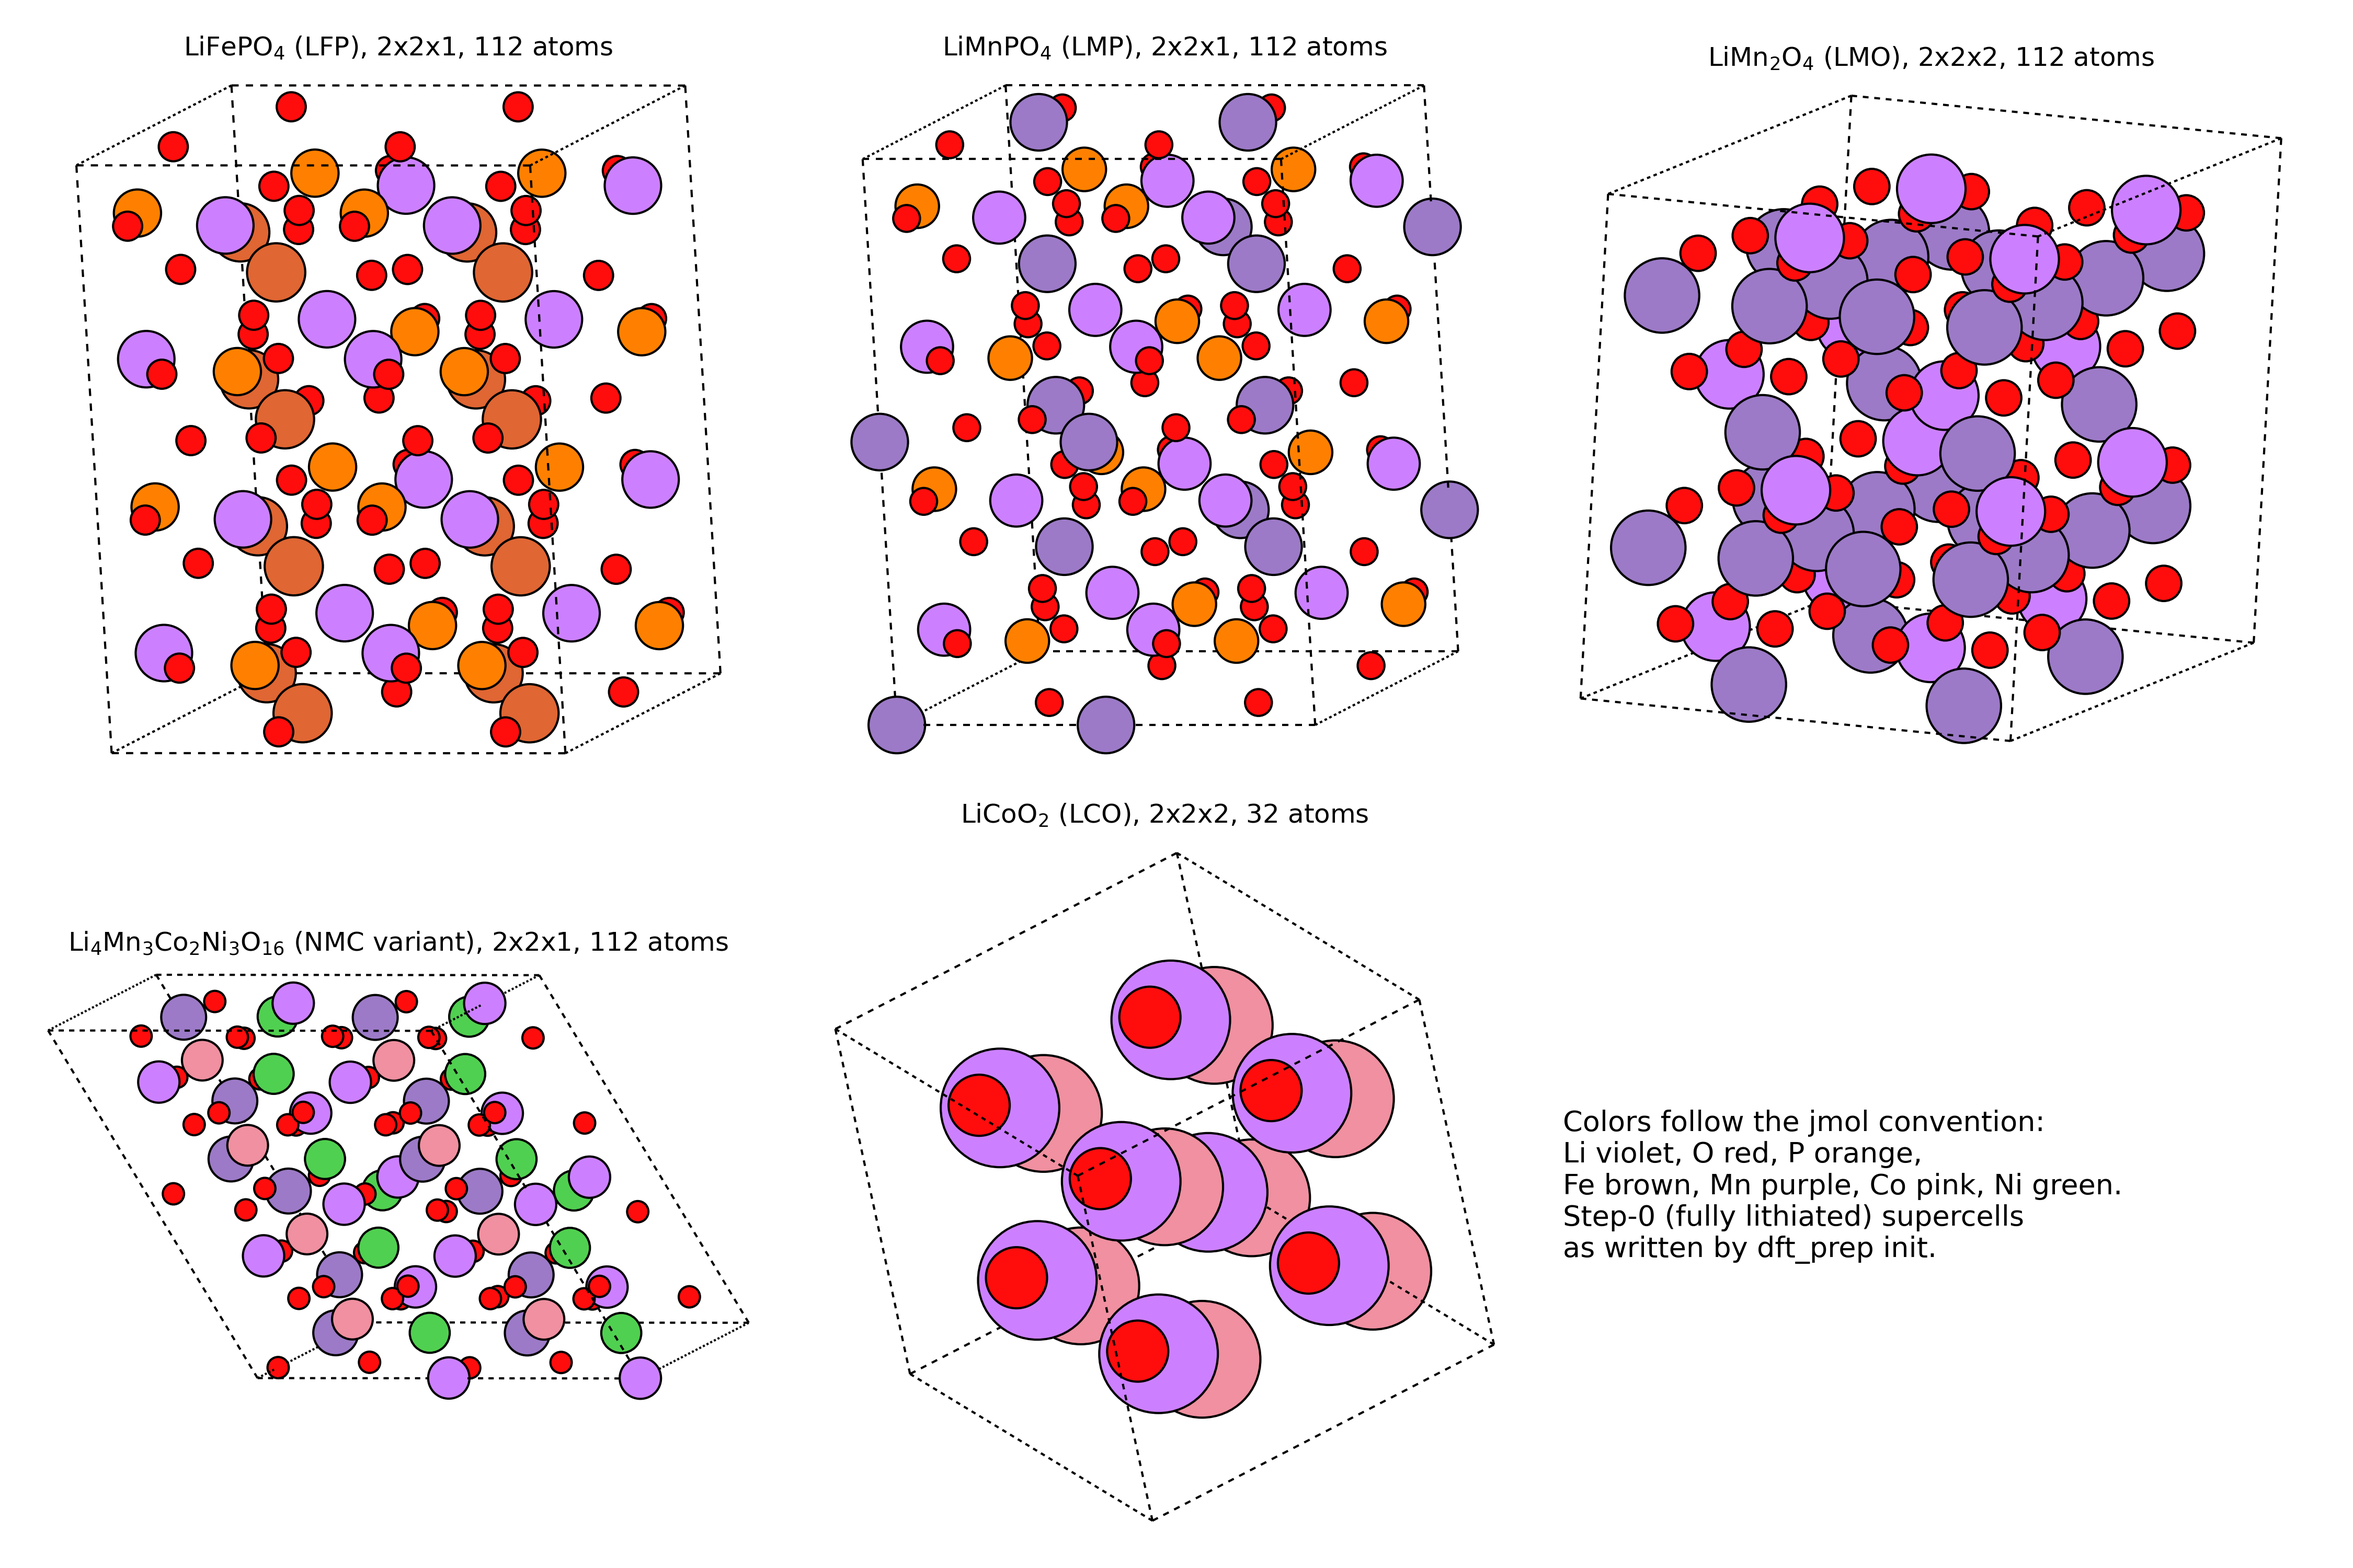
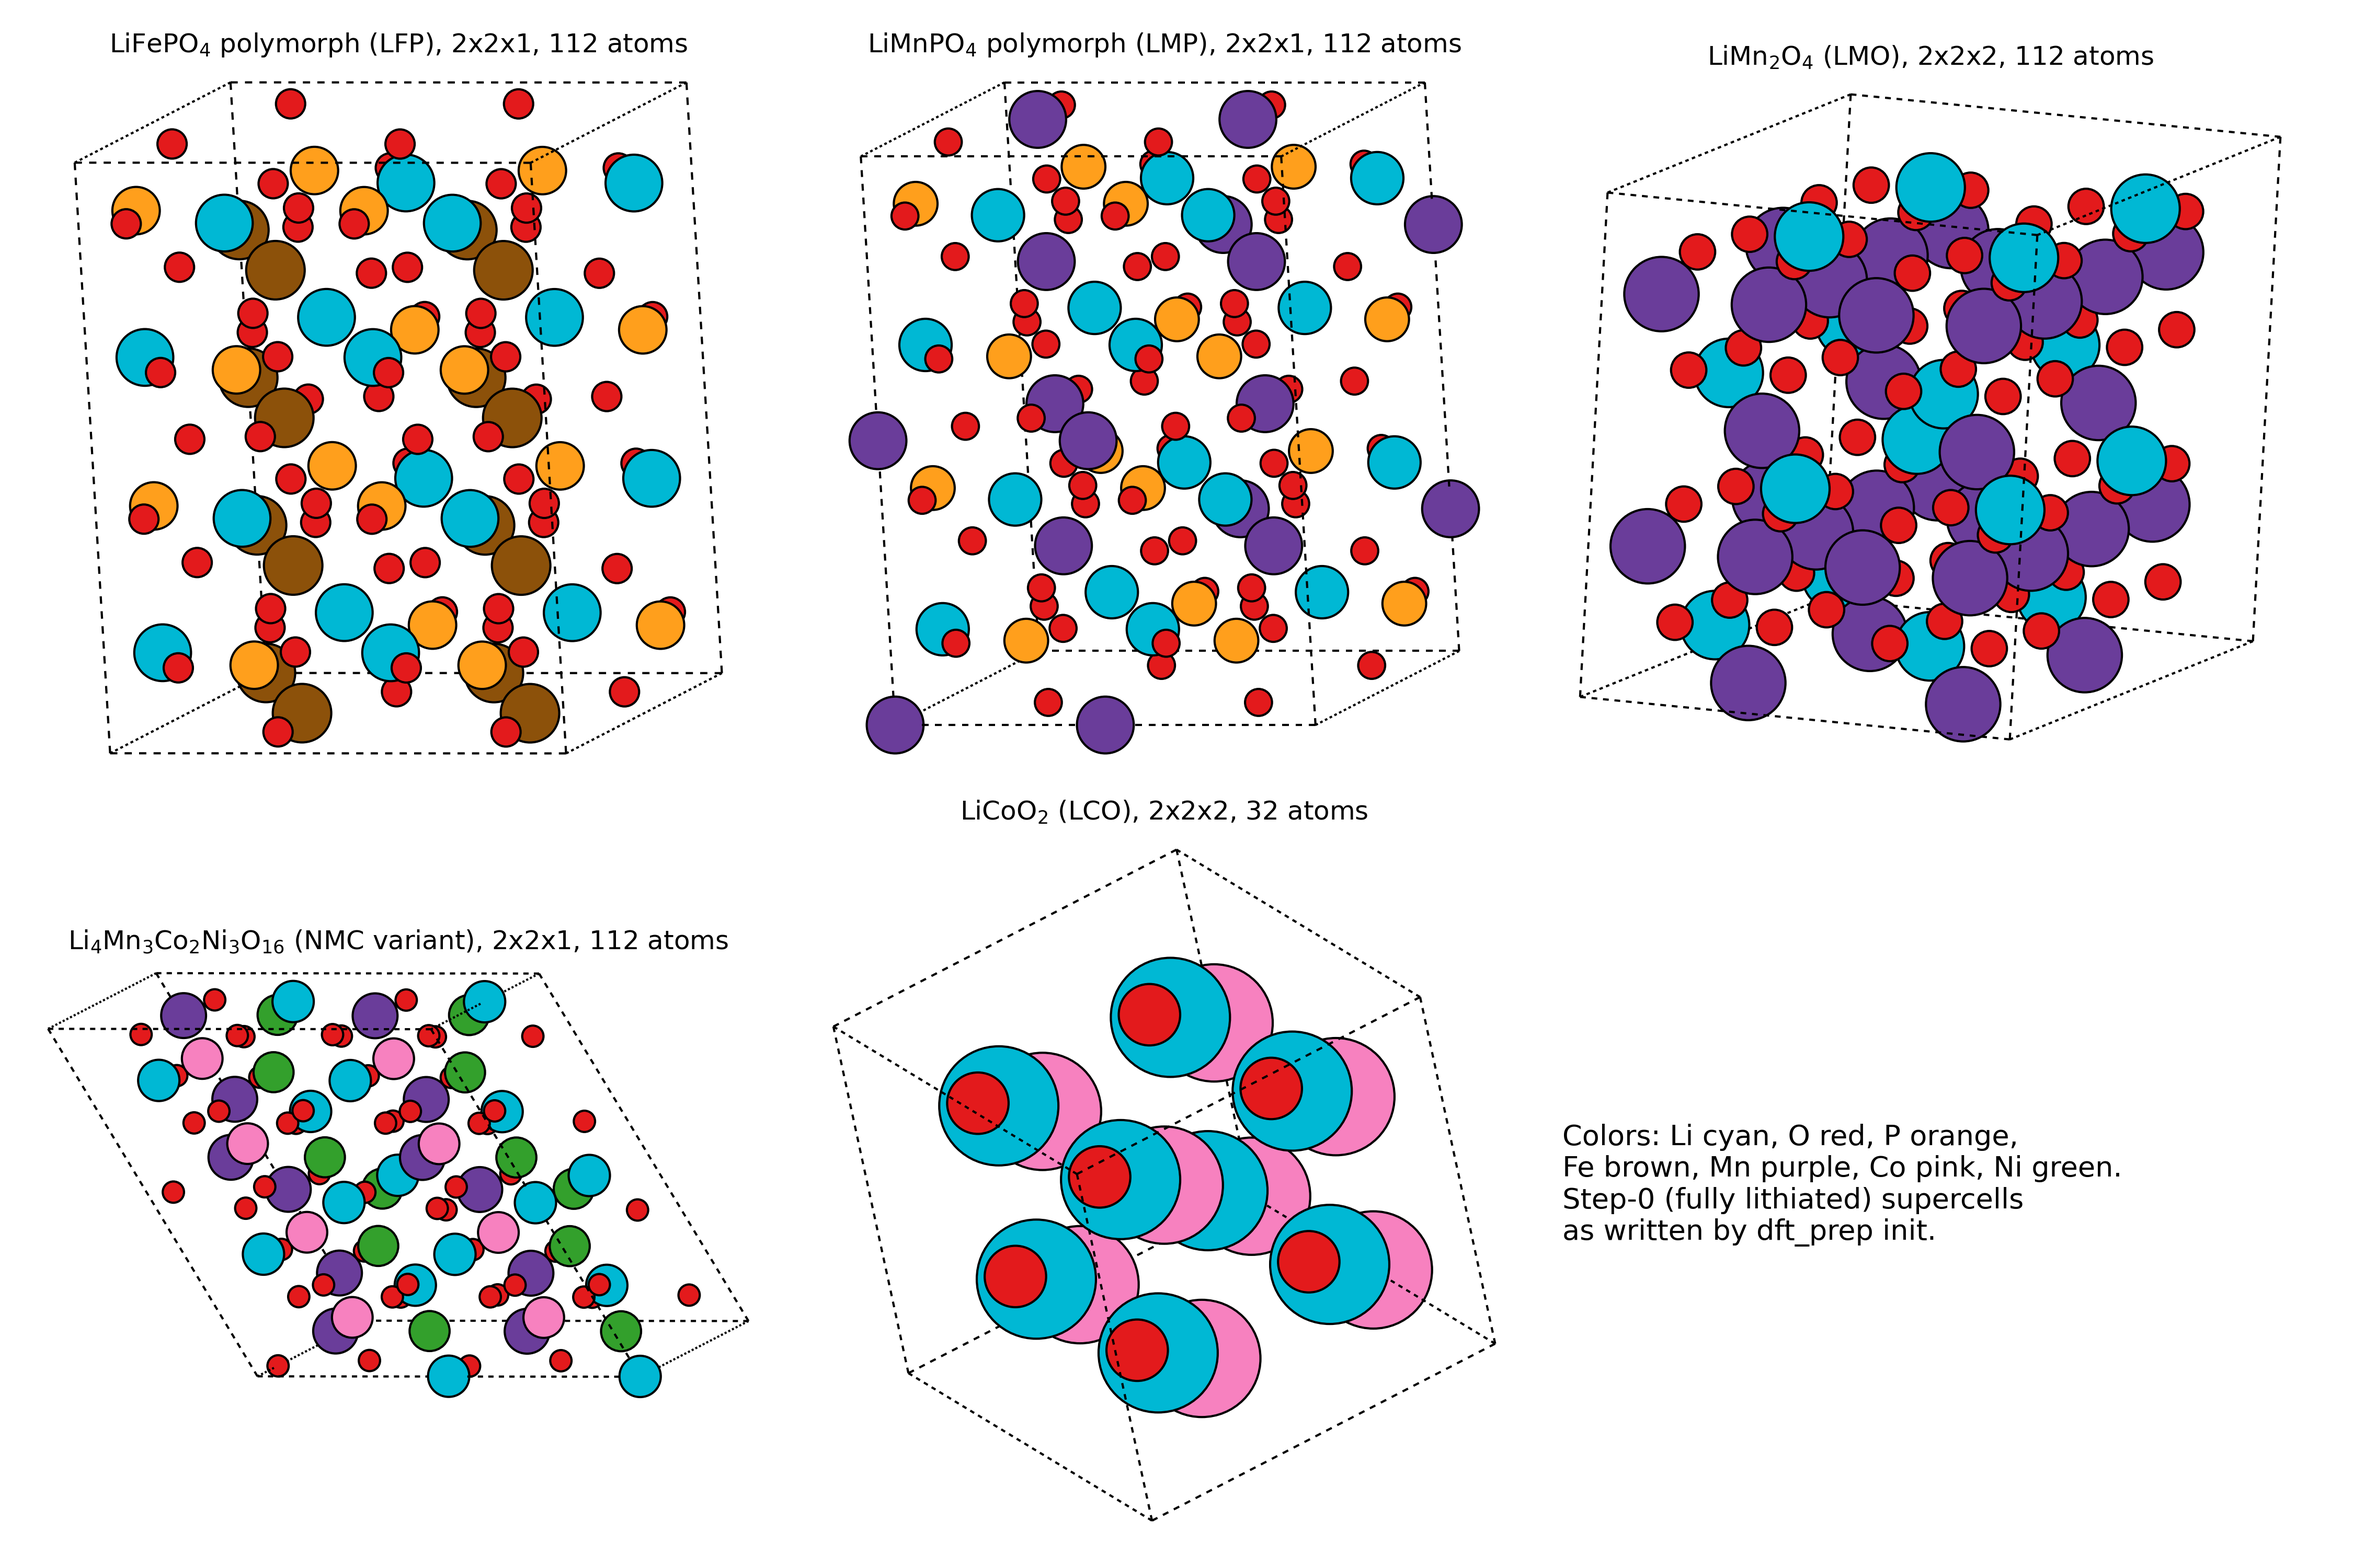
Redraw structure and enumeration SI figures: distinct element colors, panel letters

diff --git a/batterymat/screening_cathode/analysis/enumeration/enumerate.py b/batterymat/screening_cathode/analysis/enumeration/enumerate.py
@@ -41,6 +41,7 @@ Usage
   python enumerate.py JVASP-2017   [--relax auto|all|minimal|none] [--workers 4]
   python enumerate.py JVASP-96563  --ref-poscar /path/to/POSCAR
   python enumerate.py --summary    # rebuild enumeration_summary.md + PNGs from JSON
+  python enumerate.py --figures --results-suffix _mac   # redraw the SI figure (panels a-d) only
 
 Environment: ALIGNN-FF on this Mac needs KMP_DUPLICATE_LIB_OK=TRUE and a single
 OpenMP thread per process (multithreaded torch+dgl segfaults); the script sets
@@ -640,7 +641,7 @@ def _fe_curve(energy_by_mask_or_list, e_full, e_empty, n_tot):
     return fe
 
 
-def plot_system(res, out_png):
+def plot_system(res, out_png, letters="abc"):
     import matplotlib
     matplotlib.use("Agg")
     import matplotlib.pyplot as plt
@@ -678,7 +679,7 @@ def plot_system(res, out_png):
         ax.set_title(title); ax.set_xticks(range(0, n + 1)); ax.invert_xaxis(); ax.grid(alpha=0.25)
         ax.legend(loc="upper center", frameon=False)
 
-    mixing_panel(axes[0], "e_sp", a_sp["per_composition"], "(a) single-point, unrelaxed lattice",
+    mixing_panel(axes[0], "e_sp", a_sp["per_composition"], "single-point, unrelaxed lattice",
                  ("level_a_single_point", "global_min_path"))
     # gap panel: E - E_min(n_Li), symlog so 25 meV and 1 eV are both visible
     ax = axes[1]
@@ -696,11 +697,13 @@ def plot_system(res, out_png):
     ax.set_yscale("symlog", linthresh=GAP_WINDOW_MEV, linscale=1.0)
     ax.set_ylim(-3, max(ys) * 1.6)
     ax.set_xlabel("n$_{Li}$ remaining in cell"); ax.set_ylabel("E $-$ E$_{min}$(n$_{Li}$)  (meV / cell, symlog)")
-    ax.set_title("(a') greedy gap to the exhaustive minimum"); ax.set_xticks(range(0, n + 1)); ax.invert_xaxis()
+    ax.set_title("greedy gap to the exhaustive minimum"); ax.set_xticks(range(0, n + 1)); ax.invert_xaxis()
     ax.grid(alpha=0.25, which="both"); ax.legend(loc="upper center", frameon=False)
     if have_b:
         mixing_panel(axes[2], "e_relax", res["analysis"]["level_b_relaxed"]["per_composition"],
-                     "(b) after FIRE steps (diagnostic, see caveat)", ("level_b_relaxed", "global_min_relaxed_path"), contcar=True)
+                     "after FIRE steps (diagnostic, see caveat)", ("level_b_relaxed", "global_min_relaxed_path"), contcar=True)
+    for a, letter in zip(axes, letters):  # panel letters (computation levels are named in the titles)
+        a.text(-0.10, 1.03, letter, transform=a.transAxes, fontsize=22, fontweight="bold", va="bottom", ha="left")
     fig.suptitle(f"{res['jid']}  {res['formula']}  ({res['n_atoms']} atoms, {n} Li sites, {2**n} configurations)", fontsize=15)
     fig.tight_layout()
     fig.savefig(out_png, dpi=170)
@@ -846,8 +849,19 @@ def main():
     ap.add_argument("--ref-poscar", default=None)
     ap.add_argument("--resume", action="store_true", help="reuse energies already in results_JID.json")
     ap.add_argument("--summary", action="store_true", help="only rebuild summary + plots from existing JSON")
+    ap.add_argument("--figures", action="store_true",
+                    help="only redraw enumeration_JID.png from results_JID<suffix>.json, panels lettered across --jids")
+    ap.add_argument("--results-suffix", default="", help="e.g. _mac: the single-point runs behind the SI figure")
     ap.add_argument("--jids", nargs="*", default=["JVASP-2017", "JVASP-96563"])
     args = ap.parse_args()
+    if args.figures:
+        k = 0
+        for jid in args.jids:
+            res = json.load(open(HERE / f"results_{jid}{args.results_suffix}.json"))
+            ncol = 3 if "level_b_relaxed" in res["analysis"] else 2
+            plot_system(res, HERE / f"enumeration_{jid}.png", letters="abcdef"[k:k + ncol])
+            k += ncol
+        return
     if args.summary:
         for jid in args.jids:
             p = HERE / f"results_{jid}.json"

diff --git a/batterymat/screening_cathode/analysis/make_structure_figs.py b/batterymat/screening_cathode/analysis/make_structure_figs.py
@@ -10,21 +10,24 @@ from ase.visualize.plot import plot_atoms
 
 HERE = os.path.dirname(os.path.abspath(__file__))
 plt.rcParams.update({"font.size": 13})
-MATS = [("JVASP-42723-LFP", "LiFePO$_4$ (LFP), 2x2x1, 112 atoms"),
-        ("JVASP-116897-LMP", "LiMnPO$_4$ (LMP), 2x2x1, 112 atoms"),
+MATS = [("JVASP-42723-LFP", "LiFePO$_4$ polymorph (LFP), 2x2x1, 112 atoms"),
+        ("JVASP-116897-LMP", "LiMnPO$_4$ polymorph (LMP), 2x2x1, 112 atoms"),
         ("JVASP-141792-LMO", "LiMn$_2$O$_4$ (LMO), 2x2x2, 112 atoms"),
         ("JVASP-144791-NMC", "Li$_4$Mn$_3$Co$_2$Ni$_3$O$_{16}$ (NMC variant), 2x2x1, 112 atoms"),
         ("JVASP-2017-LCO", "LiCoO$_2$ (LCO), 2x2x2, 32 atoms")]
+# high-contrast colors (the jmol Li violet and Mn purple are hard to tell apart in print)
+COLORS = {"Li": "#00b8d4", "O": "#e31a1c", "P": "#ff9f1c", "Fe": "#8c510a", "Mn": "#6a3d9a", "Co": "#f781bf", "Ni": "#33a02c"}
 fig, axes = plt.subplots(2, 3, figsize=(15, 10))
 axes = axes.ravel()
 for ax, (d, title) in zip(axes, MATS):
     pos = sorted(glob.glob(os.path.join(HERE, "..", "dft_inputs", d, "supercell_*", "step_00_*", "POSCAR")))[0]
     at = read(pos, format="vasp")
-    plot_atoms(at, ax, radii=0.45, rotation="10x,-20y,0z", show_unit_cell=2)
+    plot_atoms(at, ax, radii=0.45, rotation="10x,-20y,0z", show_unit_cell=2,
+               colors=[COLORS[s] for s in at.get_chemical_symbols()])
     ax.set_title(title, fontsize=12)
     ax.set_axis_off()
 axes[-1].set_axis_off()
-axes[-1].text(0.0, 0.5, "Colors follow the jmol convention:\nLi violet, O red, P orange,\nFe brown, Mn purple, Co pink, Ni green.\nStep-0 (fully lithiated) supercells\nas written by dft_prep init.", fontsize=13, va="center")
+axes[-1].text(0.0, 0.5, "Colors: Li cyan, O red, P orange,\nFe brown, Mn purple, Co pink, Ni green.\nStep-0 (fully lithiated) supercells\nas written by dft_prep init.", fontsize=13, va="center")
 fig.tight_layout()
 out = os.path.join(HERE, "benchmark_structures.png")
 fig.savefig(out, dpi=300)
